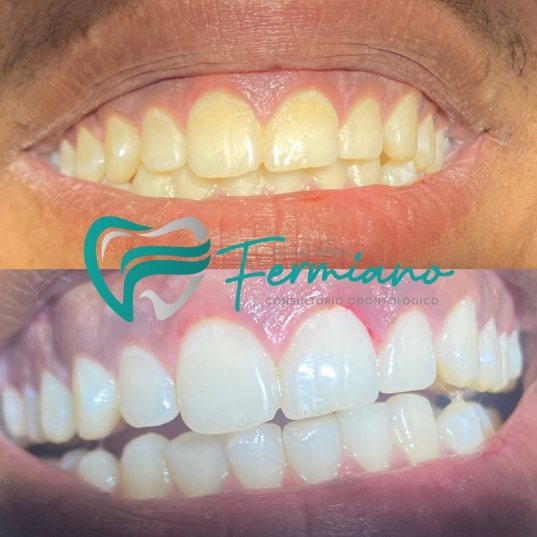
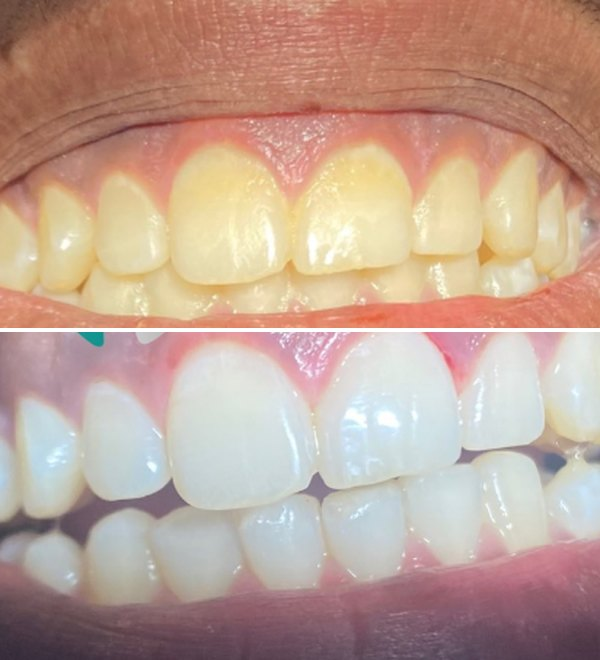
Atualiza fotos dos casos e index.html

diff --git a/index.html b/index.html
@@ -149,9 +149,12 @@
   .cases-head{display:flex;justify-content:space-between;align-items:flex-end;gap:20px;flex-wrap:wrap;margin-bottom:30px}
   .cases-head .title-bar{margin-bottom:0}
   .cases-grid{display:grid;grid-template-columns:repeat(4,1fr);gap:16px}
-  .case{position:relative;border-radius:12px;overflow:hidden;aspect-ratio:7/8;display:block}
+  .case{position:relative;border-radius:12px;overflow:hidden;aspect-ratio:600/660;display:block}
+  .ba-tag{position:absolute;left:12px;z-index:2;background:rgba(255,255,255,.94);color:var(--ink);font-size:.68rem;font-weight:800;letter-spacing:.08em;text-transform:uppercase;padding:5px 10px;border-radius:999px;box-shadow:0 2px 8px rgba(15,23,42,.15)}
+  .ba-tag.antes{top:12px}
+  .ba-tag.depois{top:calc(50% + 10px);background:var(--teal-d);color:#fff}
   .case .ph{position:absolute;inset:0}
-  .case::after{content:"";position:absolute;inset:0;background:linear-gradient(180deg,transparent 62%,rgba(15,23,42,.85))}
+  .case::after{content:"";position:absolute;inset:0;background:linear-gradient(180deg,transparent 70%,rgba(15,23,42,.85))}
   .case .lbl{position:absolute;left:14px;bottom:14px;right:14px;z-index:1;color:#fff}
   .case .lbl small{display:block;font-size:.66rem;font-weight:700;letter-spacing:.08em;text-transform:uppercase;opacity:.85}
   .case .lbl b{font-family:"Plus Jakarta Sans",sans-serif;font-size:1rem}
@@ -237,6 +240,7 @@
     section{padding:72px 0}
     .hero{padding:120px 0 64px}
     .svc-grid{grid-template-columns:1fr}
+    .cases-grid{grid-template-columns:1fr}
     .stats{grid-template-columns:1fr;gap:14px}
     .stat{border-left:0;padding:0}
     .hero-ctas .btn{width:100%}
@@ -464,10 +468,10 @@
         <a class="btn btn-teal" href="https://www.instagram.com/drfermiano/" target="_blank" rel="noopener"><svg><use href="#i-ig"/></svg>Mais casos no Instagram</a>
       </div>
       <div class="cases-grid">
-        <a class="case reveal" href="https://www.instagram.com/drfermiano/" target="_blank" rel="noopener"><div class="ph"><img src="img/caso-clareamento.jpg" alt="Antes e depois de clareamento dental" loading="lazy"></div><div class="lbl"><small>Clareamento</small><b>Sorriso mais branco</b></div></a>
-        <a class="case reveal" href="https://www.instagram.com/drfermiano/" target="_blank" rel="noopener"><div class="ph"><img src="img/caso-protese.jpg" alt="Antes e depois de prótese total" loading="lazy"></div><div class="lbl"><small>Prótese total</small><b>Seu sorriso de volta</b></div></a>
-        <a class="case reveal" href="https://www.instagram.com/drfermiano/" target="_blank" rel="noopener"><div class="ph"><img src="img/caso-restauracao.jpg" alt="Antes e depois de restauração" loading="lazy"></div><div class="lbl"><small>Restauração</small><b>Estética e função</b></div></a>
-        <a class="case reveal" href="https://www.instagram.com/drfermiano/" target="_blank" rel="noopener"><div class="ph"><img src="img/caso-coroa.jpg" alt="Antes e depois de coroa" loading="lazy"></div><div class="lbl"><small>Coroa</small><b>Reabilitação</b></div></a>
+        <a class="case reveal" href="https://www.instagram.com/drfermiano/" target="_blank" rel="noopener"><div class="ph"><img src="img/caso-clareamento.jpg" alt="Antes e depois de clareamento dental" loading="lazy"></div><span class="ba-tag antes">Antes</span><span class="ba-tag depois">Depois</span><div class="lbl"><small>Clareamento</small><b>Sorriso mais branco</b></div></a>
+        <a class="case reveal" href="https://www.instagram.com/drfermiano/" target="_blank" rel="noopener"><div class="ph"><img src="img/caso-protese.jpg" alt="Antes e depois de prótese total" loading="lazy"></div><span class="ba-tag antes">Antes</span><span class="ba-tag depois">Depois</span><div class="lbl"><small>Prótese total</small><b>Seu sorriso de volta</b></div></a>
+        <a class="case reveal" href="https://www.instagram.com/drfermiano/" target="_blank" rel="noopener"><div class="ph"><img src="img/caso-restauracao.jpg" alt="Antes e depois de restauração" loading="lazy"></div><span class="ba-tag antes">Antes</span><span class="ba-tag depois">Depois</span><div class="lbl"><small>Restauração</small><b>Estética e função</b></div></a>
+        <a class="case reveal" href="https://www.instagram.com/drfermiano/" target="_blank" rel="noopener"><div class="ph"><img src="img/caso-coroa.jpg" alt="Antes e depois de coroa" loading="lazy"></div><span class="ba-tag antes">Antes</span><span class="ba-tag depois">Depois</span><div class="lbl"><small>Coroa</small><b>Reabilitação</b></div></a>
       </div>
     </div>
   </section>
